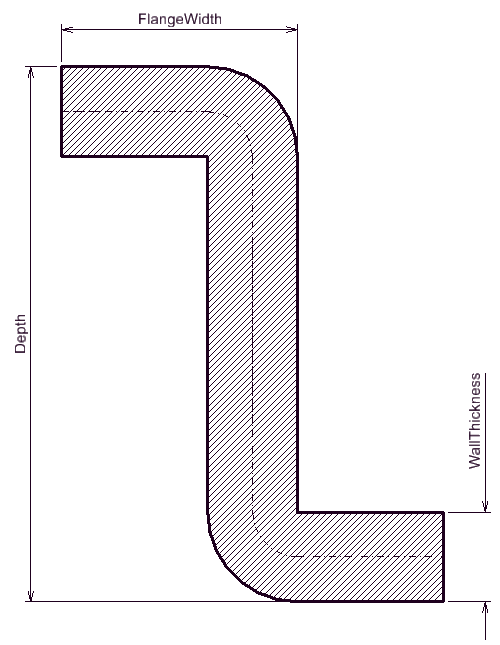
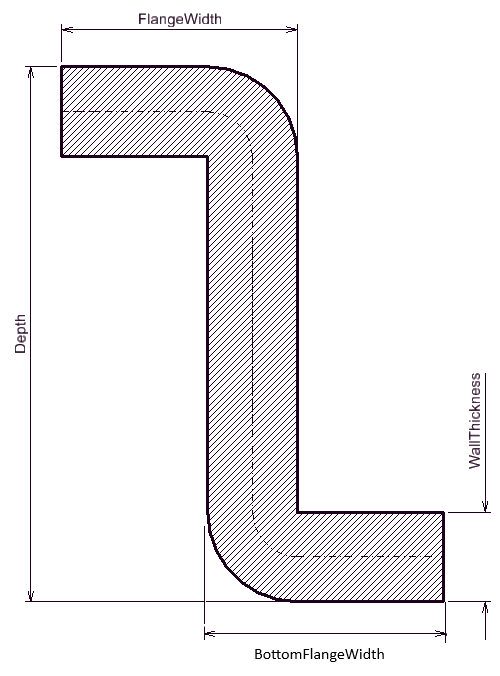
Add BottomFlangeWidth and GirthSlope to CenterlineZShapeProfile to Profiles schema (#643)
* Updated  Profiles schema working copy

* Added new Profiles schema to releases

* Updated Profiles schema docs

* Updated Z centerline profile pictures

* Changed to dev schema until release

diff --git a/Domains/1-Common/Profiles/Profiles.remarks.md b/Domains/1-Common/Profiles/Profiles.remarks.md
@@ -438,6 +438,9 @@ Note that deletion of the referenced [SinglePerimeterProfile](#singleperimeterpr
 ### CenterLineZShapeProfile
 **Constraints:**
 - `FlangeWidth` must be greater than zero
+- `BottomFlangeWidth` (if set):
+  - must be greater than zero
+  - must be greater than half `Girth` plus `WallThickness`
 - `Depth` must be greater than zero
 - `WallThickness`
   - must be greater than zero
@@ -453,6 +456,10 @@ Note that deletion of the referenced [SinglePerimeterProfile](#singleperimeterpr
     - must be less or equal to `FlangeWidth` minus `WallThickness`
 - `Girth` (if set):
   - must be greater than `WallThickness`
+- `Girth Slope` (if set):
+  - must have `Girth` set
+  - must be greater or equal to zero
+  - must be less than ninety degrees
 
 ![CenterLineZShape (only mandatory properties)](media/ProfilePictures/CenterZShape1.png)
 ![CenterLineZShape (all properties)](media/ProfilePictures/CenterZShape2.png)
